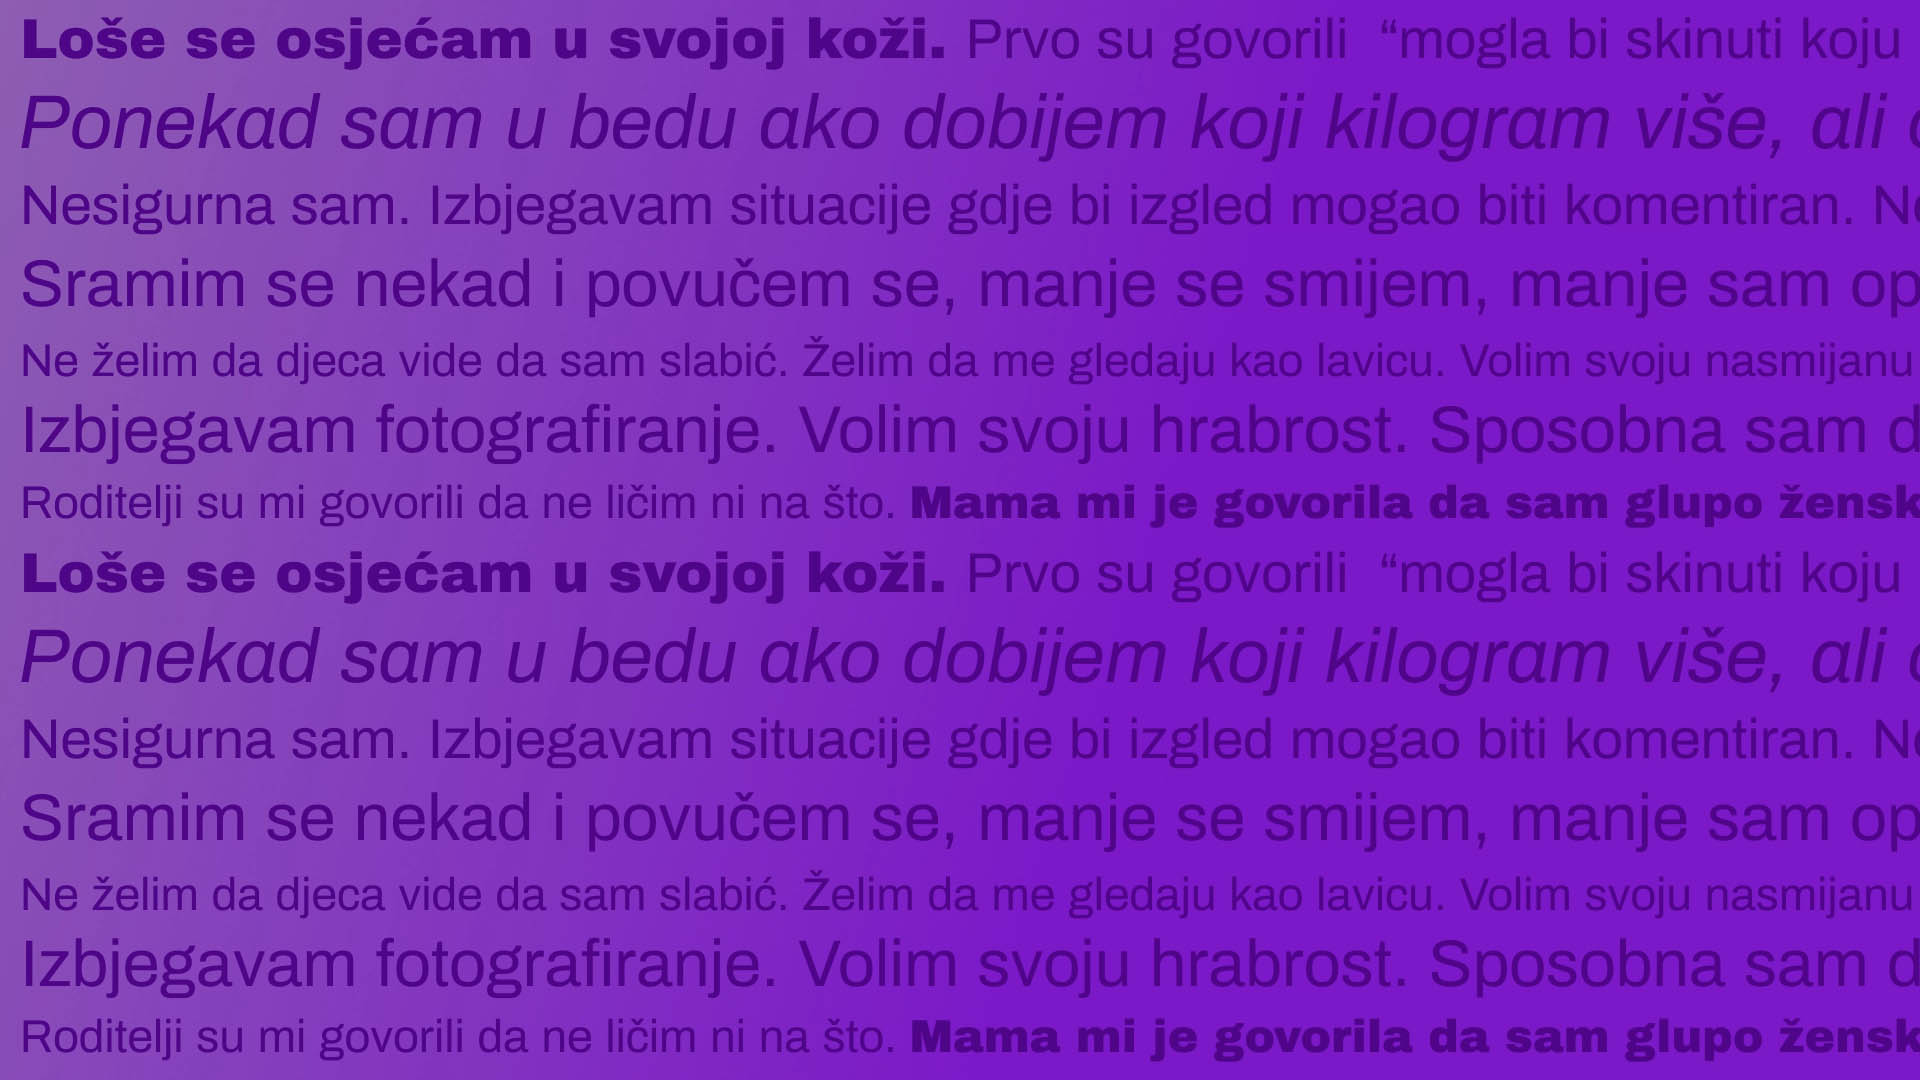
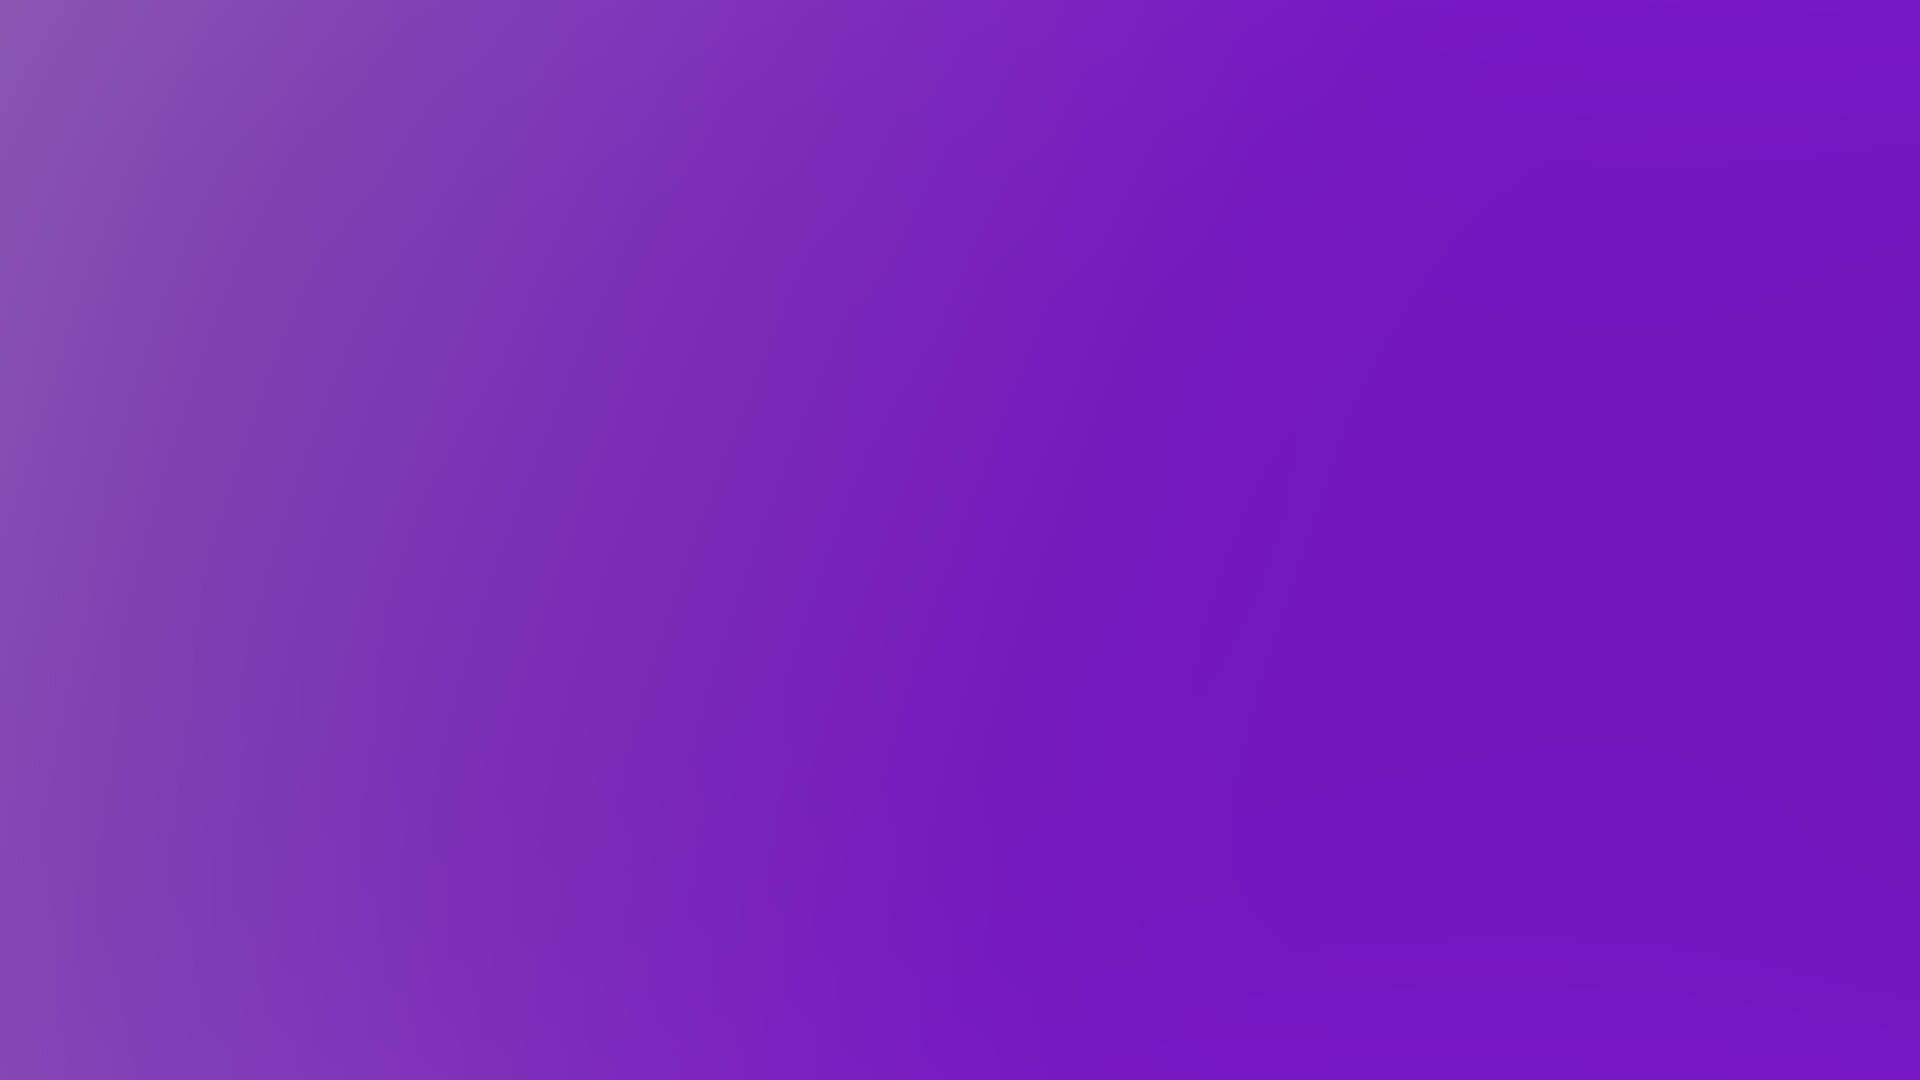
biram sebe native

diff --git a/templates/native/biram-sebe/assets/css/style.css b/templates/native/biram-sebe/assets/css/style.css
@@ -71,6 +71,17 @@ figure, header, nav, section, article, aside, footer, figcaption {
   height: 0;
 }
 
+.video-background {
+    position: fixed;
+    top: 0;
+    left: -25%;
+    min-width: 150vw;
+    min-height: 1080px;
+    z-index: 1;
+    object-fit: fill;
+}
+
+
 .clearfix {
   display: inline-block;
 }
@@ -114,7 +125,7 @@ html, body {
 
 
 #video-bg {
-  position: fixed;
+  position: absolute;
   top: 0;
   left: 0;
   width: 100%;
@@ -250,6 +261,9 @@ body {
     background-size: cover;
     background-position: bottom right;
   }
+
+  .video-background { height: 100vh; width: 1920px;
+    left: -50%; }
 
 .buttoni {position: relative; margin-top: 20px;}
 .naoblakuefikasnosti {padding: 50px; padding-top: 30px;}

diff --git a/templates/native/biram-sebe/index.php b/templates/native/biram-sebe/index.php
@@ -27,7 +27,7 @@
 
     <!-- Additional CSS Files -->
     <link rel="stylesheet" href="<?php echo $native_path ?>/assets/css/fontawesome.css">
-    <link rel="stylesheet" href="<?php echo $native_path ?>/assets/css/style.css">
+    <link rel="stylesheet" href="<?php echo $native_path ?>/assets/css/style.css?v=2">
     <link rel="stylesheet" href="<?php echo $native_path ?>/assets/css/animated.css">
     <link rel="stylesheet" href="<?php echo $native_path ?>/assets/css/owl.css">
 
